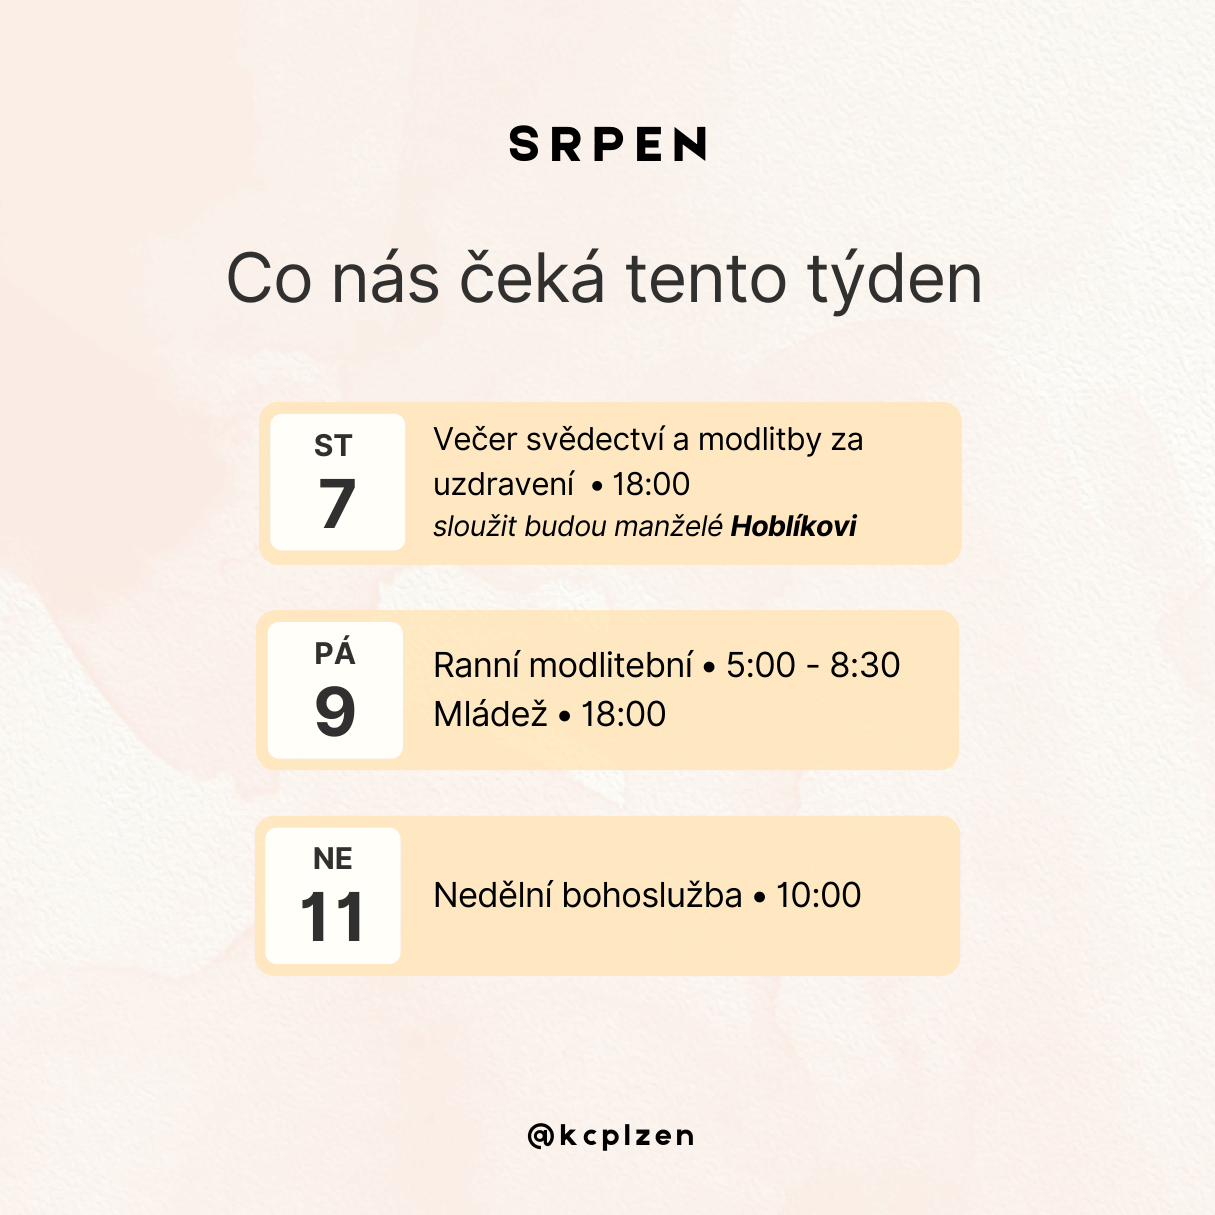
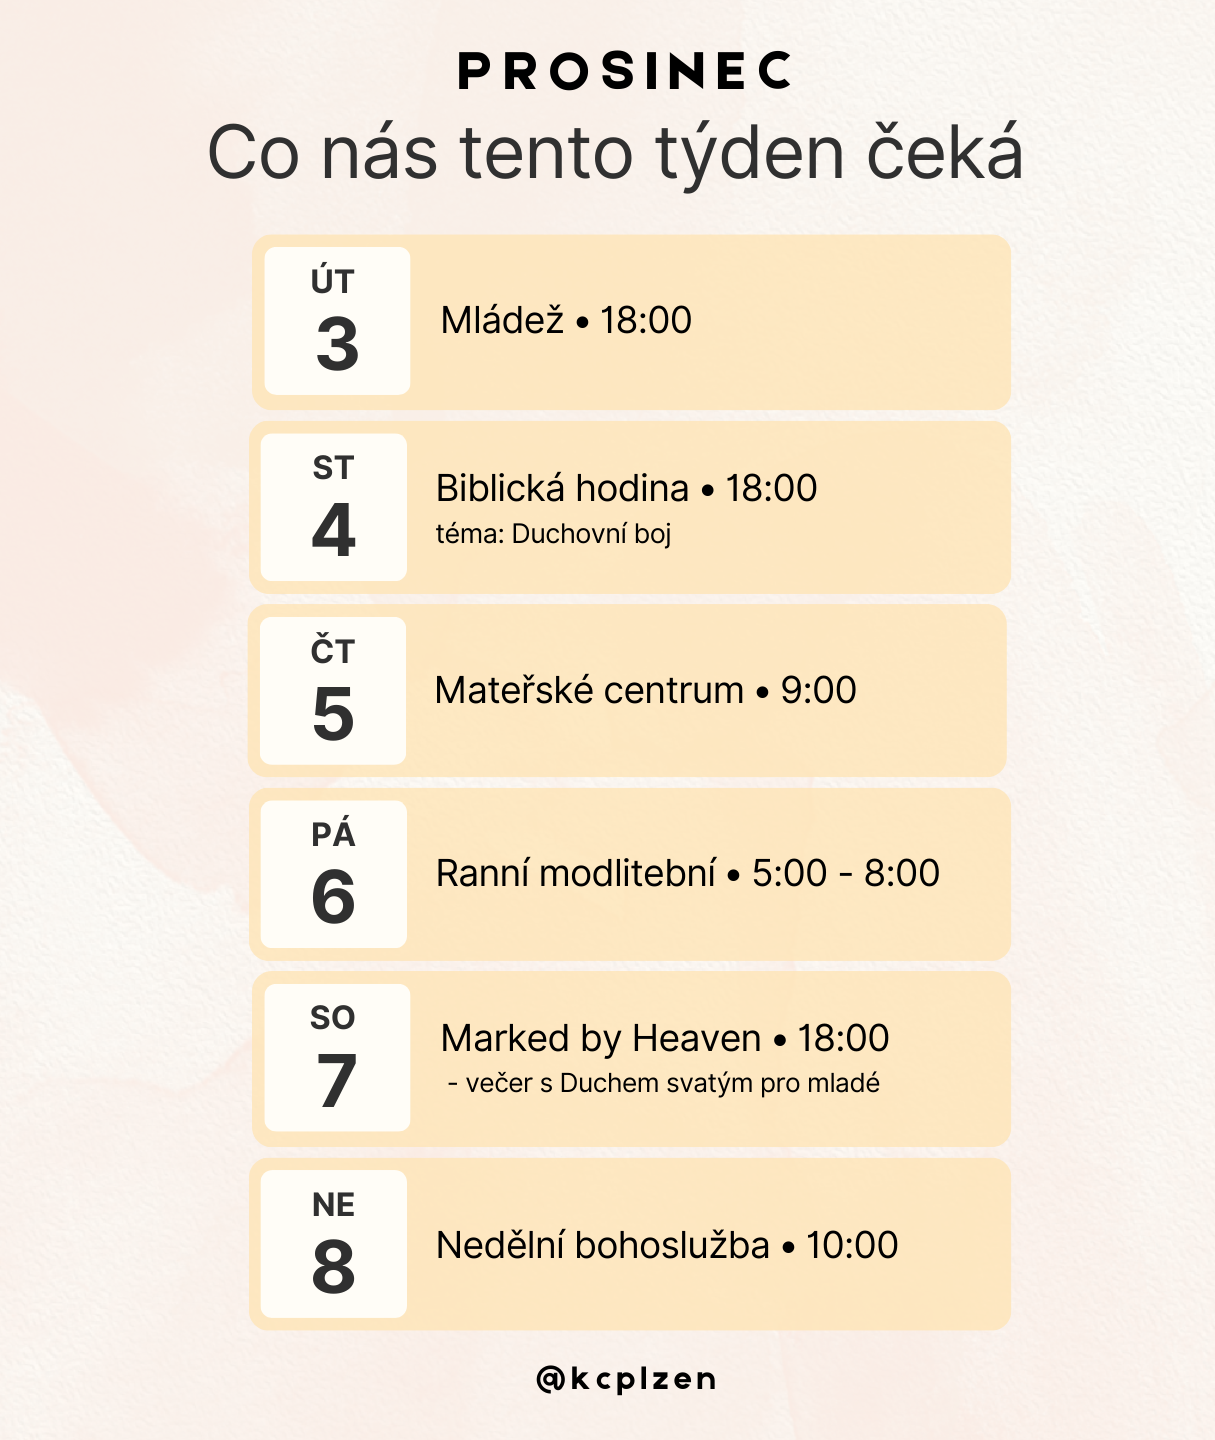
změny

Changed region(s): [[0.1523, 0.0609, 0.8527, 0.9745], [0.3654, 0.0305, 0.67, 0.0609]]

diff --git a/Svedectvi/Svedectvi4.html b/Svedectvi/Svedectvi4.html
@@ -1,0 +1,62 @@
+<!DOCTYPE html>
+<html lang="cs">
+<head>
+    <meta charset="UTF-8">
+    <meta http-equiv="X-UA-Compatible" content="IE=edge">
+    <meta name="viewport" content="width=device-width, initial-scale=1.0">
+    <meta name="description" content="Jsme svobodné charismatické křesťanské společenství.">
+    <link rel="stylesheet" type="text/css" href="../css/style.css">
+    <link rel="icon" href="images/image335.png" type="../image/x-icon">
+    <link rel="stylesheet" href="https://cdnjs.cloudflare.com/ajax/libs/font-awesome/4.7.0/css/font-awesome.min.css">
+    <link rel="preconnect" href="https://fonts.googleapis.com">
+    <link rel="preconnect" href="https://fonts.gstatic.com" crossorigin>
+    <link href="https://fonts.googleapis.com/css2?family=Inter:wght@200;300;400;500;600;700;800;900&display=swap" rel="stylesheet">
+    <title>KCP Plzeň</title>
+</head>
+<body>
+  <header>
+    <nav class="navbar">
+      <div class="navbar-container container">
+        <img class="logo" src="../images/KCP.png"  alt="logo">
+          <input type="checkbox" name="" id="">
+          <div class="hamburger-lines">
+              <span class="line line1"></span>
+              <span class="line line2"></span>
+              <span class="line line3"></span>  
+          </div>
+          <ul class="menu-items">
+              <li><a href="../index.html">Církev</a></li>
+              <li><a href="../Vyznani.html">Vyznání</a></li>
+              <li><a href="../Akce.html">Akce</a></li>
+              <li><a href="../Svedectvi.html">Svědectví</a></li>
+              <li><a href="../Galerie.html">Galerie</a></li>
+              <li><a href="../kontakty.html">Kontakty</a></li>
+              <li><a href="../Kalendar.html">Kalendář</a></li>
+          </ul>          
+      </div>
+  </nav>
+  </header>
+
+    <main class="main">
+  <section class="Odstavec3">
+    <p><a href="#" onclick="history.back(); return false;">&larr; Zpět</a></p>
+      <h1 class="text9">Dětský tábor v&nbsphájovně Třebekov</h1>
+        <h3></h3>
+          <p>Ve&nbspdnech 12.–16.8.2024 zažily děti z&nbspKřesťanského centra Plzeň dobrodružný tábor v&nbsphájovně Třebekov.
+            Na&nbsppozemku hájovny se postavily stany, v&nbspkterých děti spolu s&nbspvedoucími po&nbspdobu tábora spaly, a&nbspmohly si tak spolu užít týden plný zábavy a&nbspspolečných aktivit.
+            Od&nbspprvního do&nbspposledního dne byl pro děti připravený program, během kterého statečná výprava hledala bájné rostliny, s&nbspkterými by zachránily ostrov, z&nbspkterého první den vypluly. Během této výpravy se děti učily, jak si navzájem pomáhat, naslouchat jeden druhému, řešit vzniklé problémy a&nbspspolečně budovaly jejich kamarádství.
+            Dny se zahajovaly krátkým programem pro děti, jehož součástí bylo uctívání a&nbspnásledně slovo. Protože byly celý týden vysoké teploty, a&nbspnestalo se, že by se sluníčko na&nbspchvíli během dne schovalo, pravidelně se po&nbsppoledním odpočinku odjíždělo na&nbspkoupání do&nbspJarova.
+            Během těchto pěti dnů, kdy se děti učily vcházet do&nbspBoží přítomnosti a&nbspsoustředily se na&nbspto, co jim Bůh říká a&nbspukazuje, se na&nbsptáboře událo hned několik uzdravení. Velkým „problémem“ byly vosy, i&nbspvčely, které si nenechaly ujít příležitost a&nbsppoletovaly kolem sladkých pití a&nbspsvačinek. Když byl jeden z&nbspvedoucích, Luboš, píchnut vosou, děti se spojily a&nbspspolečně se modlily proti účinkům vosího jedu. I&nbspkdyž byla minulost taková, že&nbspměl Luboš alergické reakce, po&nbspmodlitbách a&nbspspoléhání se na&nbspBoha, se žádná reakce na&nbspvosí bodnutí nedostavila.
+            I&nbspjeden člen dětské výpravy, Jindra, se několikrát musel vypořádat s&nbspvčelím píchnutím a&nbsppředposlední den se vzbudil s&nbspbolestí hlavy a&nbspnevolnostmi. Všechny děti se za&nbspsvého kamaráda modlily, kdykoli k&nbsptomu byla příležitost, a&nbsptak Jindra díky Božímu uzdravení neměl žádné vážné reakce na&nbspvčelí píchnutí, a&nbspdruhého dne ráno, v&nbsppátek, už byl zcela zdráv.
+            Ve&nbspčtvrtek 15.8.2024 byl pro&nbspděti připraven speciální večerní program, na&nbspkterý přijeli pastor s&nbspmanželkou a&nbspněkolik dětí prožilo křest v&nbspDuchu Svatém. 
+            Všichni tak tábor ukončili s&nbspnadšením a&nbsps&nbspočekáváním, co zažijí na&nbsptáboře, který je čeká příští rok.
+            </p>
+
+    </main> 
+  <footer>
+    <p>Křesťanské centrum Plzeň, z.s.</p>
+    <p>IČ: 21076979</p>
+  </footer>
+  <script src="index.js"></script>
+</body>
+</html>

diff --git a/Deti.html b/Deti.html
@@ -37,51 +37,19 @@
   </nav>
   </header>
 
-
     <main class="main">
   <section class="Odstavec4">
-    <h1>SVĚDECTVÍ</h1>
-      <h2 class="text9">Co je to svědectví?</h2>
-        <p>Svědectví je zpráva o&nbspBožím jednání. Odhaluje Boží povahu. Svědectví prorokuje a&nbspuvolňuje Boží moc, která způsobí, že&nbspdojde k&nbspjejich zopakování v&nbspživotech těch, kdo slyší. Zj&nbsp19:10. Svědectví vypůsobuje radost, která nám dává životní sílu. Ž&nbsp119:111</p>
+    <h1>DĚTI</h1>
+  
+    <h3 class="text9">Lorem ipsum</h3>
+    <div style="display: flex;">
+    <p>Excepteur sint occaecat cupidatat non proident, sunt in culpa qui officia deserunt mollit anim id est laborum. Duis viverra diam non justo.
+      Curabitur sagittis hendrerit ante. In convallis. Aenean vel massa quis mauris vehicula lacinia. Etiam dictum tincidunt diam. Phasellus rhoncus. 
+      Praesent id justo in neque elementum ultrices. 
+      Etiam neque. Excepteur sint occaecat cupidatat non proident, sunt in culpa qui officia deserunt mollit anim id est laborum.</p>
+      <img style="height: 100%;"  src="images/Dite1.png" alt="obrázek dítěte">
+  </div>
   </section>
-  <section class="Odstavec3">
-    <a href="/Svedectvi/Svedectvi4.html">
-      <div class="svedectvi1">
-        <h2>Dětský tábor v&nbspHájovně Třebekov</h2>
-          <h3>Marek 10:14</h3>
-            <p>"Nechte děti přicházet ke&nbspmně, nebraňte jim, neboť takových je Boží království."
-            </p> 
-      </div>
-    </a>
-    <a href="/Svedectvi/Svedectvi1.html">
-      <div class="svedectvi2">
-        <h2>Jak mě Bůh uzdravil a&nbsposvobodil</h2>
-          <h3>Aneta Podlešáková</h3>
-            <p>Jeho ranami jsme byli uzdraveni. Jak mě Bůh
-              uzdravil a&nbsposvobodil.<br>
-              více...
-            </p> 
-      </div>
-    </a>
-    <a href="Svedectvi/Svedectvi2.html">
-      <div class="svedectvi1">
-        <h2>Jak jsem poznala Boha</h2>
-          <h3>Anna Zavaďáková</h3>
-            <p>Jak jsem poznala Boha a&nbspjak mi změnil život.<br>
-              více...
-            </p>
-      </div>
-    </a>
-      <a href="Svedectvi/Svedectvi3.html">
-    <div class="svedectvi2">
-      <h2>Bůh mě nikdy neopustil.</h2>
-        <h3>Týna Kulajtová</h3>
-          <p>Bůh mě nikdy neopustil! I&nbspv&nbspnejtěžších okamžicích se&nbspna&nbspněj mohu spolehnout.<br>
-            více...
-          </p>
-    </div>
-      </a>  
-
     </main> 
   <footer>
     <p>Křesťanské centrum Plzeň, z.s.</p>

diff --git a/Akce.html b/Akce.html
@@ -44,18 +44,20 @@
           <!--<img style="width: 100%;" src="images/pozor.png" alt="Nedělní hromáždění v Příbrami">-->
    </section>
    <section class="Odstavec_Acke1">
-    <img style="width: 100%;" src="images/1.png" alt="Nedělní hromáždění od 10:00">
-    <img style="width: 100%;" src="images/2.png" alt="Středeční hromáždění od 10:00">
-    <!--<p style="padding: 0 7%">Společná nedělní shromáždění od&nbsp10:00<br>
+    <!--<div class="plakaty">
+      <img style="width: 40%; min-width: 300px;" src="images/ZechinPozvanka.png" alt="Uzdravovací shromáždění 8.9.2024">
+    </div>-->
+    <img style="width: 90%;" src="images/1.png" alt="Nedělní hromáždění od 10:00">
+  <!--<img style="width: 90%;" src="images/2.png" alt="Středeční hromáždění od 10:00">
+    <p style="padding: 0 7%">Společná nedělní shromáždění od&nbsp10:00<br>
     včetně programu pro&nbspděti<br> 
     sady Pětatřicátníků 318/12, Plzeň&nbsp3<br>1.patro
-    </p>-->
+    </p>
    </section>
-  <!-- <section class="Odstavec3">    
-    <div class="plakaty">
-      <img style="width: 40%; min-width: 300px;" src="images/Stan24.png" alt="Evangelizace v Borském parku">
-    </div>
-    <div class="plakaty">
+  <section class="Odstavec3">    
+
+  </section>
+    <div class="plakaty"> 
       <img style="width: 40%; min-width: 300px;" src="images/D1.png" alt="Dětský den.">
       <img style="width: 40%; min-width: 300px;" src="images/D2.png" alt="Dětský den.">
     </div>-->
